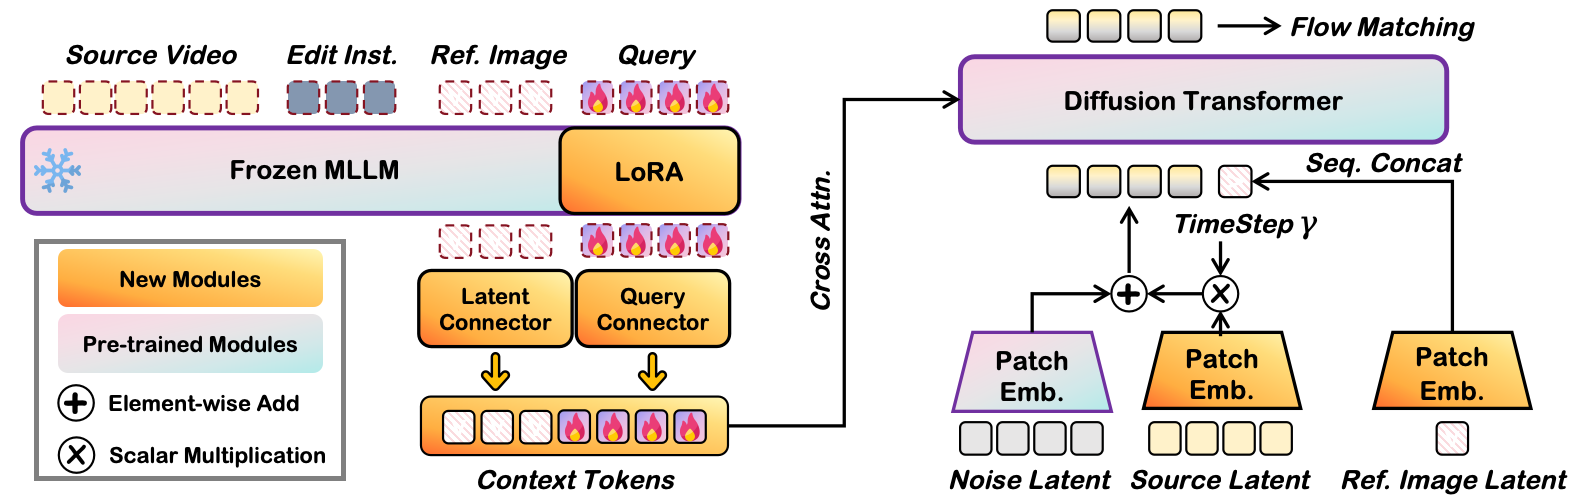
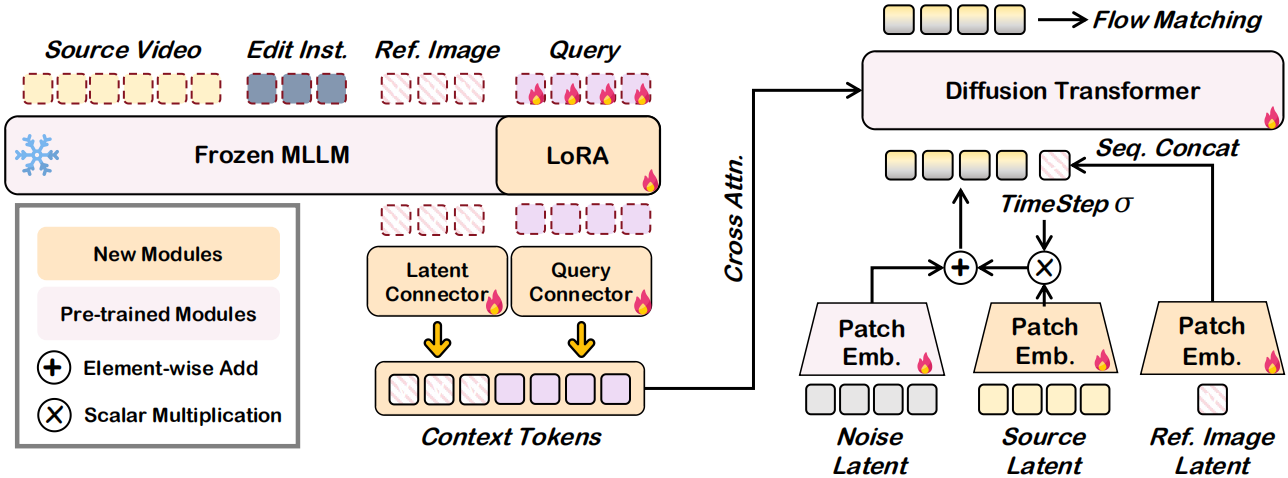
update

diff --git a/index.html b/index.html
@@ -692,28 +692,39 @@
         <h1>Quantitative Results</h1>
 
         <h2>OpenVE-Bench</h2>
-        <p class="text">
-            We evaluate on OpenVE-Bench, assessed by Gemini-2.5-Pro, across five editing categories: Global Style, Background Change, Local Change, Local Remove, and Local Add. Kiwi-Edit (Stage-3 Instruct-Reference) achieves the best overall score among open-source methods.
+        <p class="text table-caption">
+            <em>Table 2.</em> OpenVE-Bench results evaluated on Gemini-2.5-Pro. Orange rows denote closed-source models and are excluded when selecting the best and second-best scores; gray rows denote open-source baselines and blue rows denote our variants. Bold and underlined scores indicate the best and second-best results among non-closed-source methods, respectively.
         </p>
 
-        <div class="results-table-wrapper">
+        <div class="results-table-wrapper wide">
             <table>
                 <thead>
                     <tr>
                         <th>Method</th>
-                        <th>#Params.</th>
+                        <th>#Params.<br>(DiT)</th>
                         <th>#Reso.</th>
-                        <th>Overall &uarr;</th>
-                        <th>Global Style &uarr;</th>
-                        <th>Background Change &uarr;</th>
-                        <th>Local Change &uarr;</th>
-                        <th>Local Remove &uarr;</th>
-                        <th>Local Add &uarr;</th>
+                        <th>Overall&uarr;</th>
+                        <th>Global<br>Style &uarr;</th>
+                        <th>Background<br>Change &uarr;</th>
+                        <th>Local<br>Change &uarr;</th>
+                        <th>Local<br>Remove &uarr;</th>
+                        <th>Local<br>Add &uarr;</th>
                     </tr>
                 </thead>
                 <tbody>
+                    <tr class="closed-source-row">
+                        <td>Runway Aleph</td>
+                        <td>-</td>
+                        <td>1280&times;720</td>
+                        <td>3.49</td>
+                        <td>3.72</td>
+                        <td>2.62</td>
+                        <td>4.18</td>
+                        <td>4.16</td>
+                        <td>2.78</td>
+                    </tr>
                     <tr>
-                        <td>VACE</td>
+                        <td>VACE <span class="method-citation">(Jiang et al., 2025)</span></td>
                         <td>14B</td>
                         <td>1280&times;720</td>
                         <td>1.57</td>
@@ -724,7 +735,7 @@
                         <td>1.26</td>
                     </tr>
                     <tr>
-                        <td>OmniVideo</td>
+                        <td>OmniVideo <span class="method-citation">(Tan et al., 2025)</span></td>
                         <td>1.3B</td>
                         <td>640&times;352</td>
                         <td>1.19</td>
@@ -735,7 +746,7 @@
                         <td>1.36</td>
                     </tr>
                     <tr>
-                        <td>InsViE</td>
+                        <td>InsViE <span class="method-citation">(Wu et al., 2025b)</span></td>
                         <td>2B</td>
                         <td>720&times;480</td>
                         <td>1.45</td>
@@ -746,7 +757,7 @@
                         <td>1.17</td>
                     </tr>
                     <tr>
-                        <td>Lucy-Edit</td>
+                        <td>Lucy-Edit <span class="method-citation">(Team, 2025)</span></td>
                         <td>5B</td>
                         <td>1280&times;704</td>
                         <td>2.22</td>
@@ -757,7 +768,7 @@
                         <td>2.30</td>
                     </tr>
                     <tr>
-                        <td>ICVE</td>
+                        <td>ICVE <span class="method-citation">(Liao et al., 2025)</span></td>
                         <td>13B</td>
                         <td>384&times;240</td>
                         <td>2.18</td>
@@ -768,18 +779,18 @@
                         <td>1.97</td>
                     </tr>
                     <tr>
-                        <td>DITTO</td>
+                        <td>DITTO <span class="method-citation">(Bai et al., 2025a)</span></td>
                         <td>14B</td>
                         <td>832&times;480</td>
                         <td>2.13</td>
-                        <td>4.01</td>
+                        <td><strong>4.01</strong></td>
                         <td>1.68</td>
                         <td>2.03</td>
                         <td>1.53</td>
                         <td>1.41</td>
                     </tr>
                     <tr>
-                        <td>OpenVE-Edit</td>
+                        <td>OpenVE-Edit <span class="method-citation">(He et al., 2025)</span></td>
                         <td>5B</td>
                         <td>1280&times;704</td>
                         <td>2.50</td>
@@ -789,106 +800,169 @@
                         <td>1.85</td>
                         <td>2.15</td>
                     </tr>
-                    <tr style="background-color:#E6F2FF;">
-                        <td><b>Ours</b> (Stage-2 Instruct-Only)</td>
+                    <tr>
+                        <td>ReCo <span class="method-citation">(Zhang et al., 2025)</span></td>
+                        <td>2.1B</td>
+                        <td>832&times;480</td>
+                        <td>2.80</td>
+                        <td><span class="second-best">3.96</span></td>
+                        <td>1.92</td>
+                        <td>3.70</td>
+                        <td>2.24</td>
+                        <td>2.17</td>
+                    </tr>
+                    <tr>
+                        <td>UniVideo <span class="method-citation">(Wei et al., 2025)</span></td>
+                        <td>14B</td>
+                        <td>854&times;480</td>
+                        <td><span class="second-best">3.02</span></td>
+                        <td>3.67</td>
+                        <td>2.51</td>
+                        <td>3.79</td>
+                        <td><strong>2.73</strong></td>
+                        <td><span class="second-best">2.40</span></td>
+                    </tr>
+                    <tr class="ours-row section-start">
+                        <td><strong>Ours</strong> (Stage-2 Instruct-Only)</td>
                         <td>5B</td>
                         <td>720&times;480</td>
                         <td>2.92</td>
                         <td>3.54</td>
+                        <td><span class="second-best">2.59</span></td>
                         <td>3.80</td>
-                        <td>2.59</td>
                         <td>2.55</td>
                         <td>2.12</td>
                     </tr>
-                    <tr style="background-color:#E6F2FF;">
-                        <td><b>Ours</b> (Stage-2 Instruct-Only)</td>
+                    <tr class="ours-row">
+                        <td><strong>Ours</strong> (Stage-2 Instruct-Only)</td>
                         <td>5B</td>
                         <td>1280&times;704</td>
                         <td>2.98</td>
                         <td>3.54</td>
-                        <td>3.84</td>
                         <td>2.57</td>
-                        <td>2.71</td>
+                        <td><span class="second-best">3.84</span></td>
+                        <td><span class="second-best">2.71</span></td>
                         <td>2.25</td>
                     </tr>
-                    <tr style="background-color:#E6F2FF;">
-                        <td><b>Ours</b> (Stage-3 Instruct-Reference)</td>
+                    <tr class="ours-row">
+                        <td><strong>Ours</strong> (Stage-3 Instruct-Reference)</td>
                         <td>5B</td>
                         <td>1280&times;704</td>
-                        <td>3.02</td>
-                        <td>3.64</td>
-                        <td>2.64</td>
-                        <td>3.83</td>
-                        <td>2.63</td>
-                        <td>2.36</td>
+                        <td><strong>3.11</strong></td>
+                        <td>3.72</td>
+                        <td><strong>2.67</strong></td>
+                        <td><strong>3.91</strong></td>
+                        <td>2.69</td>
+                        <td><strong>2.55</strong></td>
                     </tr>
                 </tbody>
             </table>
         </div>
 
         <h2>RefVIE-Bench</h2>
-        <p class="text">
-            We report subject-reference and background-reference evaluation scores on RefVIE-Bench. The table summarizes identity/temporal/physical consistency for subject guidance, reference similarity/matting/video quality for background guidance, and an overall score.
+        <p class="text table-caption">
+            <em>Table 3.</em> Comparison on RefVIE-Bench with <em>Gemini-3-Flash</em> as Judge Model.
         </p>
 
-        <div class="results-table-wrapper">
+        <div class="results-table-wrapper wide">
             <table>
                 <thead>
                     <tr>
                         <th rowspan="2">Model</th>
-                        <th colspan="3">Subject Reference</th>
-                        <th colspan="3">Background Reference</th>
-                        <th rowspan="2">Overall</th>
+                        <th rowspan="2">#Params.(DiT)</th>
+                        <th colspan="4">Subject Reference</th>
+                        <th colspan="4">Background Reference</th>
+                        <th rowspan="2">Overall&uarr;</th>
                     </tr>
                     <tr>
-                        <th>Identity Consist.</th>
-                        <th>Temporal Consist.</th>
-                        <th>Physical Consist.</th>
-                        <th>Reference Sim.</th>
-                        <th>Matting Quality</th>
-                        <th>Video Quality</th>
+                        <th>Identity<br>Consist.</th>
+                        <th>Temporal<br>Consist.</th>
+                        <th>Physical<br>Consist.</th>
+                        <th>Subj.<br>Avg.</th>
+                        <th>Refer.<br>Sim.</th>
+                        <th>Matting<br>Quality</th>
+                        <th>Video<br>Quality</th>
+                        <th>BG<br>Avg.</th>
                     </tr>
                 </thead>
                 <tbody>
-                    <tr>
+                    <tr class="closed-source-row">
                         <td>Runway Aleph</td>
+                        <td>-</td>
                         <td>3.79</td>
                         <td>3.65</td>
                         <td>3.58</td>
+                        <td>3.67</td>
                         <td>3.33</td>
                         <td>2.81</td>
                         <td>2.58</td>
+                        <td>2.91</td>
                         <td>3.29</td>
                     </tr>
-                    <tr>
-                        <td>Kling-O1</td>
+                    <tr class="closed-source-row">
+                        <td>Kling-O1 <span class="method-citation">(Team et al., 2025)</span></td>
+                        <td>-</td>
                         <td>4.75</td>
                         <td>4.66</td>
                         <td>4.60</td>
+                        <td>4.67</td>
                         <td>3.95</td>
                         <td>3.21</td>
                         <td>2.75</td>
+                        <td>3.30</td>
                         <td>3.99</td>
                     </tr>
-                    <tr style="background-color:#E6F2FF;">
-                        <td><b>Ours</b> (All data)</td>
+                    <tr>
+                        <td>UniVideo <span class="method-citation">(Wei et al., 2025)</span></td>
+                        <td>14B</td>
+                        <td><span class="second-best">4.17</span></td>
+                        <td><strong>3.79</strong></td>
+                        <td><strong>3.59</strong></td>
+                        <td><strong>3.85</strong></td>
+                        <td>3.13</td>
+                        <td>2.55</td>
+                        <td>2.28</td>
+                        <td><span class="second-best">2.65</span></td>
+                        <td><strong>3.44</strong></td>
+                    </tr>
+                    <tr>
+                        <td>ReCo-Ref <span class="method-citation">(Zhang et al., 2025)</span></td>
+                        <td>2.1B</td>
+                        <td>3.65</td>
+                        <td>2.95</td>
+                        <td>2.70</td>
+                        <td>3.10</td>
+                        <td><span class="second-best">3.35</span></td>
+                        <td><strong>2.65</strong></td>
+                        <td><span class="second-best">2.38</span></td>
+                        <td><strong>2.79</strong></td>
+                        <td>3.00</td>
+                    </tr>
+                    <tr class="ours-row section-start">
+                        <td><strong>Ours</strong> (Stage-3 Instruct-Reference)</td>
+                        <td>5B</td>
                         <td>3.51</td>
                         <td>2.96</td>
                         <td>2.91</td>
-                        <td>3.40</td>
-                        <td>2.58</td>
-                        <td>2.40</td>
+                        <td>3.13</td>
+                        <td><strong>3.40</strong></td>
+                        <td><span class="second-best">2.58</span></td>
+                        <td><strong>2.40</strong></td>
+                        <td><strong>2.79</strong></td>
                         <td>2.96</td>
                     </tr>
-                    <tr style="background-color:#E6F2FF;">
-                        <td><b>Ours</b> (Ref. data only)</td>
-                        <td>3.98</td>
-                        <td>3.40</td>
-                        <td>3.34</td>
-                        <td>3.72</td>
-                        <td>2.90</td>
-                        <td>2.51</td>
-                        <td>3.31</td>
+                    <tr class="ours-row">
+                        <td><strong>Ours</strong> (Stage-3 Reference. only)</td>
+                        <td>5B</td>
+                        <td><strong>4.28</strong></td>
+                        <td><span class="second-best">3.61</span></td>
+                        <td><span class="second-best">3.55</span></td>
+                        <td><span class="second-best">3.81</span></td>
+                        <td>3.33</td>
+                        <td>2.35</td>
+                        <td>2.08</td>
+                        <td>2.58</td>
+                        <td><span class="second-best">3.40</span></td>
                     </tr>
                 </tbody>
             </table>

diff --git a/webpage/kiwiedit.css b/webpage/kiwiedit.css
@@ -606,7 +606,7 @@
 }
 
 .results-table-wrapper.wide {
-  width: 60vw;
+  width: min(96vw, 1180px);
   position: relative;
   left: 50%;
   transform: translateX(-50%);
@@ -641,6 +641,19 @@
   background: #fafbfc;
 }
 
+.results-table-wrapper tr.closed-source-row td {
+  background-color: #fbf0ea !important;
+}
+
+.results-table-wrapper tr.ours-row td {
+  background-color: #E6F2FF !important;
+  border-bottom-color: #d7e7f8;
+}
+
+.results-table-wrapper tr.section-start td {
+  border-top: 2px solid #c5d1dc;
+}
+
 .results-table-wrapper tr[style*="background-color:#E6F2FF"] td,
 .results-table-wrapper tr[style*="background-color: #E6F2FF"] td {
   background-color: #E6F2FF !important;
@@ -654,8 +667,13 @@
 
 .results-table-wrapper .second-best {
   text-decoration: underline;
-  text-decoration-color: rgba(42, 122, 184, 0.4);
+  text-decoration-color: currentColor;
   text-underline-offset: 2px;
+}
+
+.results-table-wrapper .method-citation {
+  color: #0a50a1;
+  white-space: nowrap;
 }
 
 /* ======================== Section Divider ===================== */

diff --git a/README.md b/README.md
@@ -226,7 +226,7 @@ python eval_openve_gemini.py --video_paths path_to_videos
 
 ## Acknowledgements
 
-Kiwi-Edit builds on training framework [ModelScope DiffSynth-Studio](https://github.com/modelscope/DiffSynth-Studio), open-sourced datasets [Ditto-1M](https://huggingface.co/datasets/QingyanBai/Ditto-1M/tree/main/videos/source), [OpenVE-3M](https://huggingface.co/datasets/Lewandofski/OpenVE-3M), [ReCo](https://huggingface.co/datasets/HiDream-ai/ReCo-Data/tree/main), [GPT-Image-Edit-1.5M](https://huggingface.co/datasets/UCSC-VLAA/GPT-Image-Edit-1.5M), [NHR-Edit](https://huggingface.co/datasets/iitolstykh/NHR-Edit), reward model [EditScore](https://github.com/VectorSpaceLab/EditScore) and image generation model [Qwen-Image-Edit](https://huggingface.co/Qwen/Qwen-Image-Edit-2511).
+Kiwi-Edit builds on training framework [ModelScope DiffSynth-Studio](https://github.com/modelscope/DiffSynth-Studio), open-sourced datasets [Ditto-1M](https://huggingface.co/datasets/QingyanBai/Ditto-1M/tree/main/videos/source), [OpenVE-3M](https://huggingface.co/datasets/Lewandofski/OpenVE-3M), [ReCo](https://huggingface.co/datasets/HiDream-ai/ReCo-Data/tree/main), [GPT-Image-Edit-1.5M](https://huggingface.co/datasets/UCSC-VLAA/GPT-Image-Edit-1.5M), [NHR-Edit](https://huggingface.co/datasets/iitolstykh/NHR-Edit), reward model [EditScore](https://github.com/VectorSpaceLab/EditScore), foundation model [Qwen2.5-VL](https://github.com/QwenLM/Qwen3-VL), [Wan](https://github.com/Wan-Video/Wan2.1) and image generation model [Qwen-Image-Edit](https://huggingface.co/Qwen/Qwen-Image-Edit-2511).
 
 ## Citation
 
